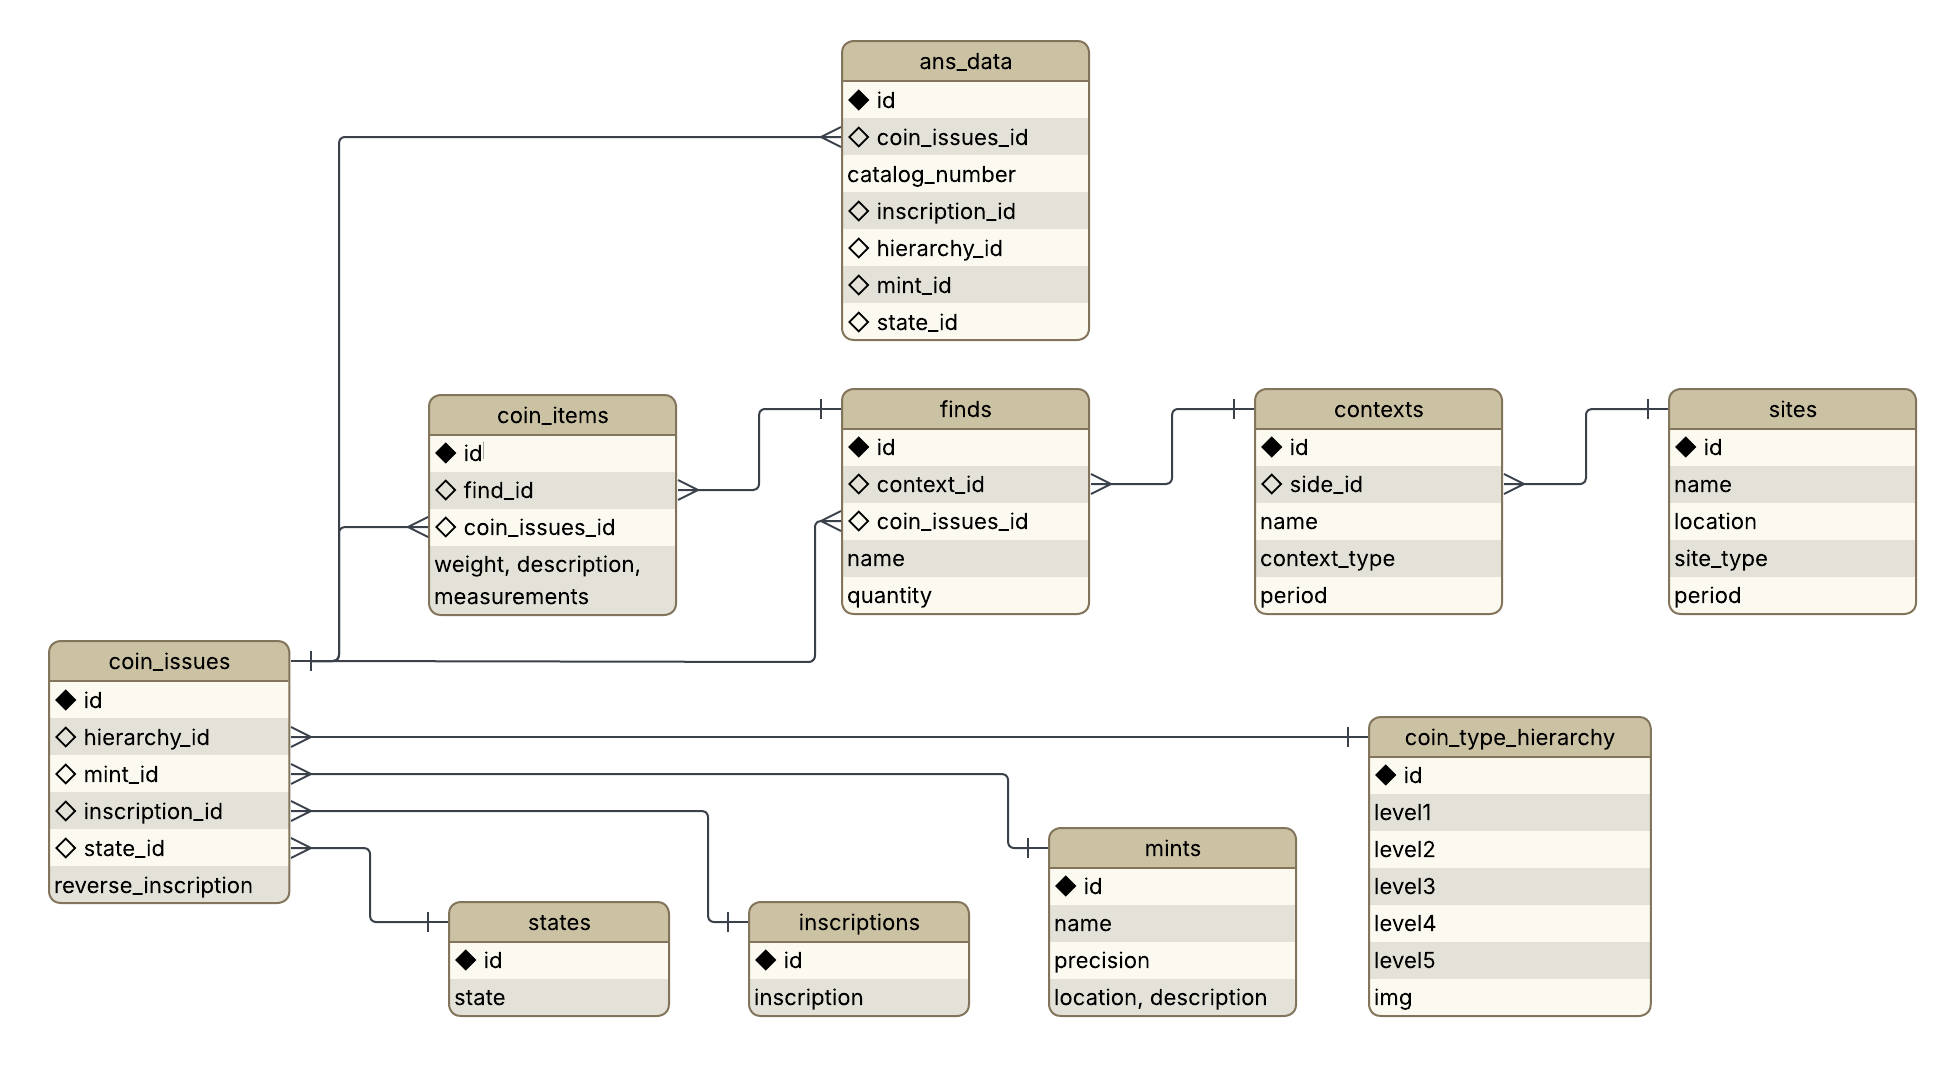
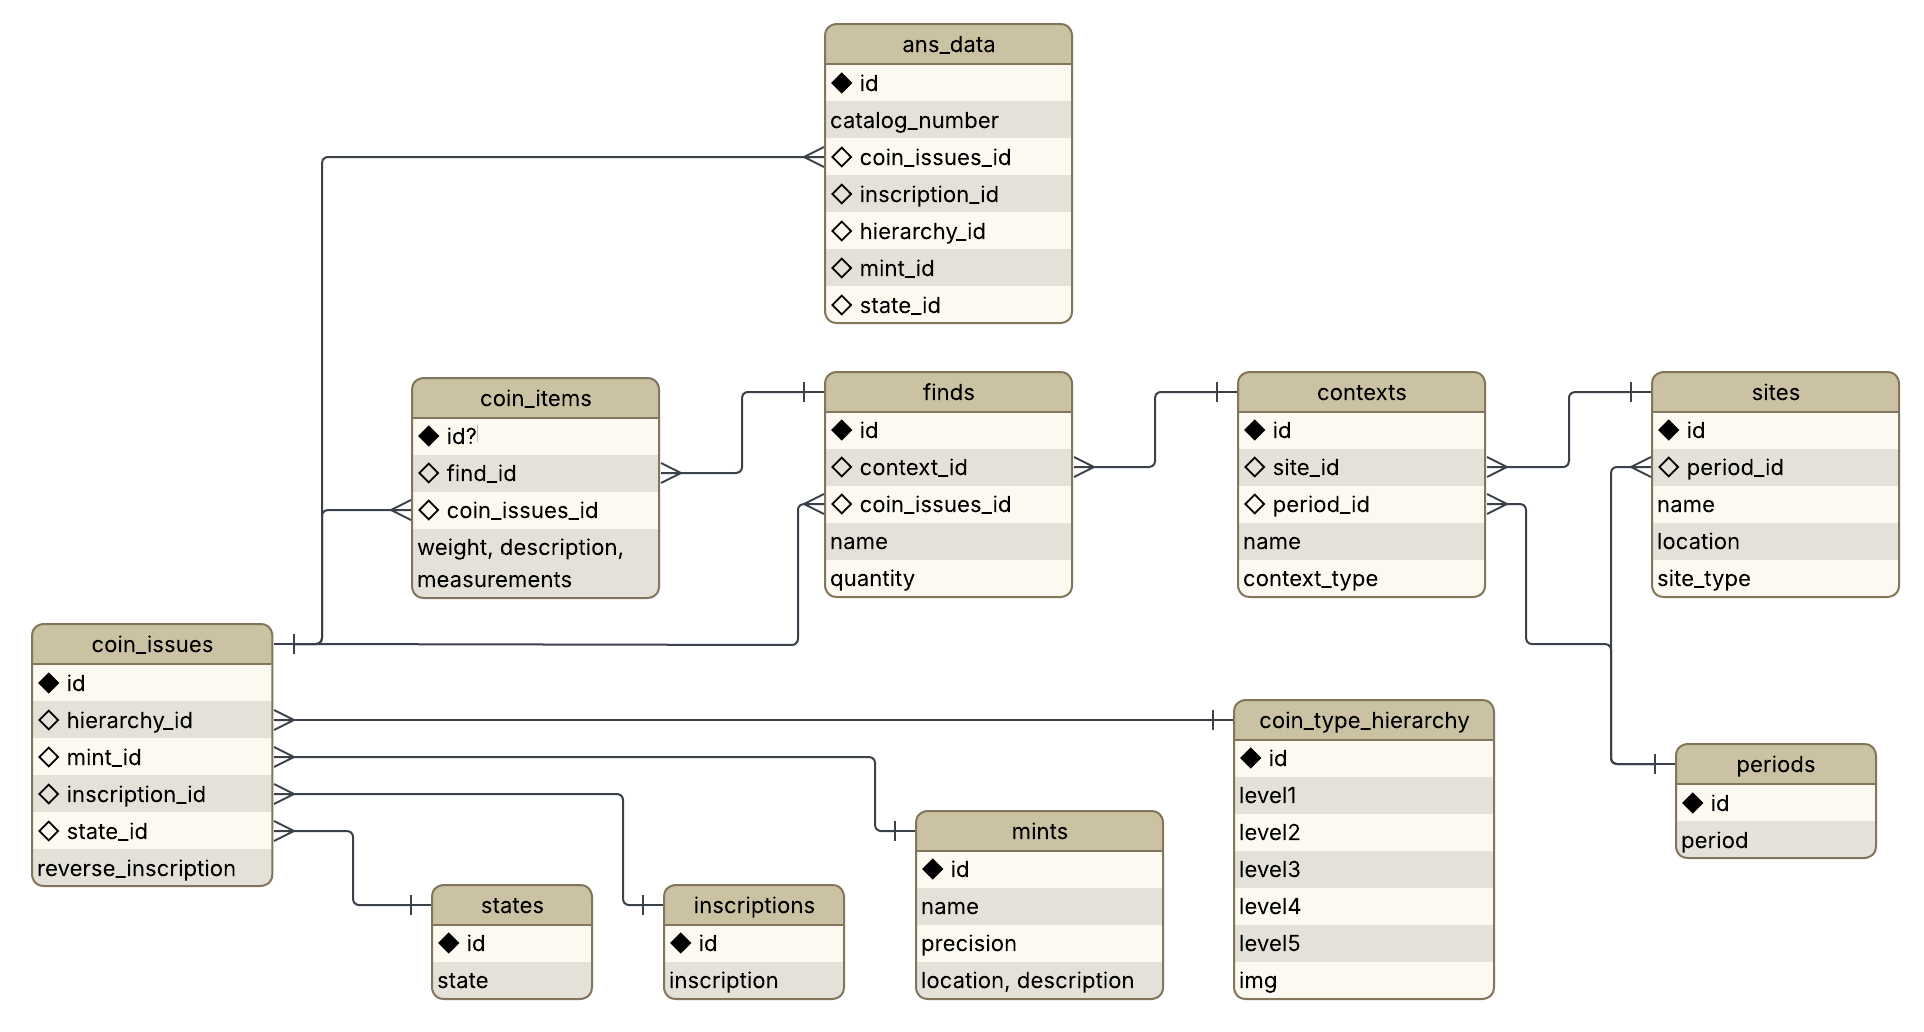
swapped a map image, updated database schema)

Changed region(s): [[0.0, 0.5891, 0.9979, 0.9922], [0.1559, 0.0, 0.5925, 0.6202], [0.5925, 0.3411, 0.9979, 0.5891]]

diff --git a/app/globals.css b/app/globals.css
@@ -72,17 +72,16 @@
   --brand-bright: #365727;
   --brand-dark: #213509;
   --brand: #304912;
-  --brand-light: #e3ece7;  /* pale tint for subtle backgrounds, badges, focus rings */
-  /* Raw R,G,B channels of --brand, for rgba(var(--brand-rgb), alpha) — a hex
-     custom property can't be fed directly into rgba(), so this is kept in
-     sync by hand whenever --brand changes (used by app/maps.css). */
   --brand-rgb: 48, 73, 18;
+  --brand-light: #e3ece7;  /* pale tint for subtle backgrounds, badges, focus rings */
+
+  /* --brand-bright: #c9d5ba;
+  --brand-dark: #97a487;
+  --brand: #afbca0; */
 
   /* --- Secondary accent: bronze — use sparingly (a rare highlight, never
      the default interactive color) --- */
   --accent: #e1941f;
-  --accent-dark: #6b4520;
-  --accent-light: #efe0c3;
   /* Raw R,G,B channels of --accent — see --brand-rgb above. */
   --accent-rgb: 225, 148, 31;
 
@@ -155,6 +154,15 @@ a {
   background: var(--paper);
   border: 1px solid var(--brand);
   border-radius: var(--radius) var(--radius) 0 0;
+}
+
+/* Mint/coin-type list cards (MintListClient, CoinTypeCard): a very slight
+   tint on hover instead of the old "view details" reveal. Written here
+   rather than as a Tailwind hover: utility, since Tailwind v4 utilities live
+   in a CSS @layer and this file's unlayered .panel background rule above
+   would otherwise always win the cascade over a layered hover utility. */
+.panel-hover-tint:hover {
+  background: color-mix(in srgb, var(--brand-light) 40%, var(--paper));
 }
 .panel .home-panel {
   background: var(--paper);

diff --git a/lib/demo-visualizations.ts b/lib/demo-visualizations.ts
@@ -80,18 +80,23 @@ export const DEMO_VISUALIZATIONS: DemoVisualization[] = [
     },
   },
   {
-    id: 'mint-compare-anyang-anyi',
-    title: { zh: '安阳与安邑铸地对比', en: 'Anyang vs. Anyi mints' },
+    id: 'mould-coin-compare',
+    title: { zh: '圆足布范与圆足布对比', en: 'Round-foot spade mould vs. coin' },
     description: {
-      zh: '对比安阳与安邑两处铸地的铸币产量与出土遗址分布',
-      en: 'Compares coin output and find-site reach between the Anyang and Anyi mints',
+      zh: '对比圆足布范与圆足布两者的出土遗址分布',
+      en: 'Compares find-site distributions between round-foot spade moulds and the coins they cast',
     },
     via: {
-      zh: '按铸地，对比视图',
-      en: 'Mint, Compare view',
+      zh: '按币种，对比视图',
+      en: 'Coin Type, Compare view',
     },
-    image: '/images/home-demos/mint-compare-anyang-anyi.png',
-    target: { page: 'find-site', mode: 'mint', view: 'compare', mints: ['安阳', '安邑'] },
+    image: '/images/home-demos/mould-coin-compare.png',
+    target: {
+      page: 'find-site',
+      mode: 'type',
+      view: 'compare',
+      types: [typeSel('钱范', '布币范', '平首布范', '圆足布范'), typeSel('钱币', '布币', '平首布', '圆足布')],
+    },
   },
   {
     id: 'knife-density',

diff --git a/components/coin-types/CoinTypeCard.tsx b/components/coin-types/CoinTypeCard.tsx
@@ -11,7 +11,7 @@ import type { CoinTypeCounts, CoinTypeNode } from '@/lib/coin-type-catalog'
 import type { CoinTypeImagePaths } from '@/lib/coin-images'
 
 /** One typology node (L1–L4) as a card — mirrors MintListClient's card
- * shape/CSS (`panel`, tag styling, hover reveal) so the two list pages read
+ * shape/CSS (`panel`, tag styling, hover tint) so the two list pages read
  * as one system. */
 export function CoinTypeCard({
   node,
@@ -31,7 +31,7 @@ export function CoinTypeCard({
   ].filter((p): p is { src: string; key: string } => p !== null)
 
   return (
-    <Link href={`/coin-types/${node.slug}`} className="panel group flex flex-col p-5">
+    <Link href={`/coin-types/${node.slug}`} className="panel panel-hover-tint group flex flex-col p-5 transition-colors">
       {panes.length > 0 ? (
         <div className={`grid gap-1.5 ${panes.length > 1 ? 'grid-cols-2' : 'grid-cols-1'}`}>
           {panes.map((pane) => (
@@ -91,10 +91,6 @@ export function CoinTypeCard({
           ))}
         </div>
       )}
-
-      <span className="mt-4 text-xs text-brand opacity-0 transition group-hover:opacity-100">
-        <T k="mintList.viewDetails" />
-      </span>
     </Link>
   )
 }

diff --git a/components/mints/MintListClient.tsx b/components/mints/MintListClient.tsx
@@ -2,7 +2,6 @@
 
 import Link from 'next/link'
 import { useMemo, useState } from 'react'
-import { T } from '@/components/i18n/T'
 import { useLanguage } from '@/lib/i18n/LanguageContext'
 import type { DictionaryKey } from '@/lib/i18n/dictionary'
 import type { MintDirectoryEntry, MintTypeLabel } from '@/lib/mint-directory'
@@ -141,7 +140,7 @@ export function MintListClient({
               <Link
                 key={mint.mint_code}
                 href={`/mints/${mint.mint_code}`}
-                className="panel group flex flex-col p-5"
+                className="panel panel-hover-tint group flex flex-col p-5 transition-colors"
               >
                 <div className="flex items-start justify-between gap-2">
                   <h2 className="font-serif text-lg font-semibold text-gray-900 group-hover:text-brand">
@@ -174,10 +173,6 @@ export function MintListClient({
                     </span>
                   ))}
                 </div>
-
-                <span className="mt-4 text-xs text-brand opacity-0 transition group-hover:opacity-100">
-                  <T k="mintList.viewDetails" />
-                </span>
               </Link>
             )
           })}

diff --git a/app/maps.css b/app/maps.css
@@ -21,9 +21,9 @@
    variables live in the COLOR PALETTE section of globals.css.
    ============================================================================ */
 :root {
-  --map-dot-fill: rgba(var(--brand-rgb), 0.6);
+  --map-dot-fill: rgba(var(--brand-rgb), 0.8);
   --map-dot-special: rgba(var(--accent-rgb), 0.6);
-  --map-dot-border: rgba(255, 255, 255, 0.2); /* white with low opacity, so the dot's fill color shows through */
+  --map-dot-border: rgba(255, 255, 255, 0.9); /* white with low opacity, so the dot's fill color shows through */
 
   --map-dot-disabled-fill: rgba(62, 62, 62, 0.14);
   --map-dot-disabled-border: rgba(41, 41, 41, 0.2);
@@ -101,8 +101,8 @@
   --map-popup-divider: #ddd;
 }
 .map-dot {
-  border-width: 2px;
-  border-style: white solid 1px;
+  border-width: 1px;
+  border-style: solid;
   border-radius: 50%;
   background: var(--map-dot-fill);
   border-color: var(--map-dot-border);

diff --git a/lib/i18n/dictionary.ts b/lib/i18n/dictionary.ts
@@ -538,7 +538,6 @@ export const DICTIONARY = {
     en: '{coins} coins found in {sites} sites',
     zh: '{sites} 个遗址中共发现 {coins} 枚钱币',
   },
-  'mintList.viewDetails': { en: 'View details →', zh: '查看详情 →' },
   'mintList.sortBy': { en: 'Sort by', zh: '排序方式' },
   'mintList.sort.name': { en: 'Name', zh: '名称' },
   'mintList.sort.finds': { en: 'Number of finds', zh: '出土记录数' },
